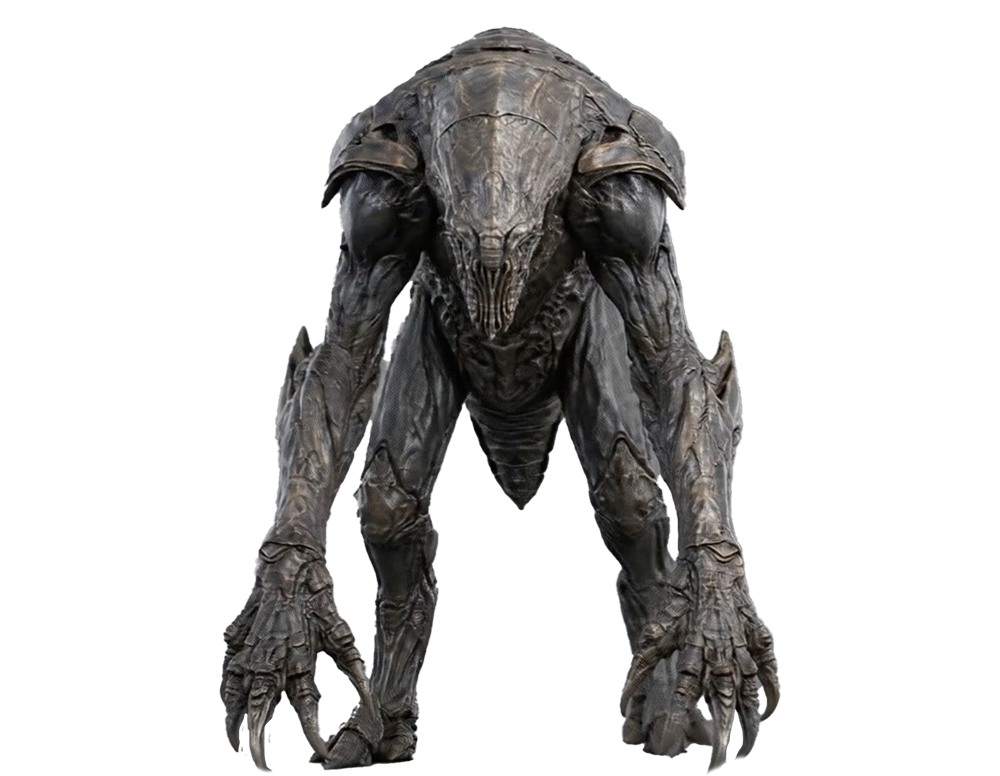
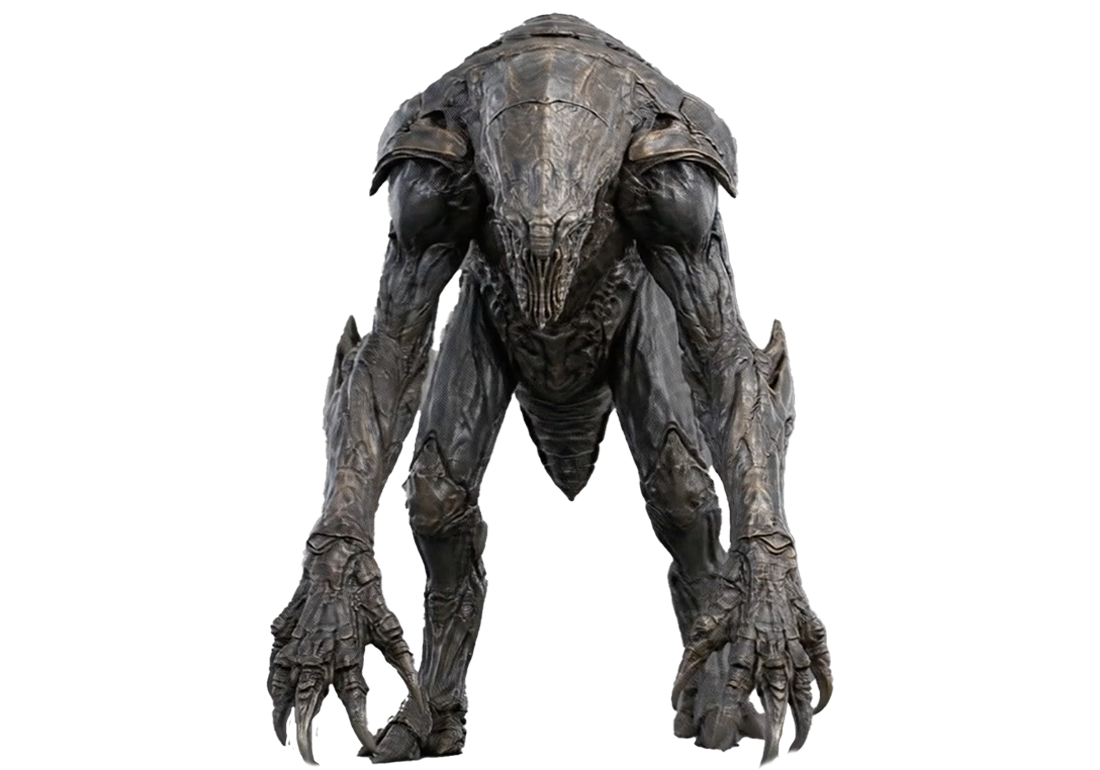
ボス歩行7コマ・影調整・ガイド枠タイミング短縮・OG文言更新
- alien-b-1.png → alien-b-l.png リネーム
- ボス歩行 alien-b-w1〜w7 を追加、bossAlien_walk を 7コマ・8fps ループに
- ボス displaySize 72×56 → 80×56（新比率 1100:770）
- ボス walk フレームのみ y を +2px 下げて影との隙間を解消
- ボスの影を拡大（width 50→60、height +2px）
- メッセージ枠を更に 2px 上に (labelY -34, arrowY -26)
- ガイド演出を 4秒以内に短縮（STEP_DUR 200→160, HOLD 150→120, total ≒ 4秒）
- OG description を映画予告風に更新
  「20XX年、月面探査クルーからの消息が途絶えた。月面下で、
   未知の脅威が目覚める。生還を賭けた、たった一人の救出作戦。」
- noindex,nofollow メタタグ削除（検索エンジンに公開）

Changed region(s): [[0.217, 0.0, 0.806, 0.9974]]

diff --git a/index.html b/index.html
@@ -3,15 +3,14 @@
 
 <head prefix="og:http://ogp.me/ns#">
     <title>Moonlander</title>
-    <meta name="description" content="Moonlanderというゲームを実行します。このゲームでは、プレイヤーが宇宙船を上下左右に操作して、デブリを避け目標となるフラッグに着陸することが目的です。フラッグ手前の月面に0.5秒止まるとクリアです。">
+    <meta name="description" content="20XX年、月面探査クルーからの消息が途絶えた。月面下で、未知の脅威が目覚める。生還を賭けた、たった一人の救出作戦。">
     <meta charset="utf-8">
     <meta property="og:url" content="https://paxcreation.com/moon/" />
     <meta property="og:type" content="product" />
     <meta property="og:title" content="Moonlander" />
-    <meta property="og:description" content="Moonlanderというゲームを実行します。このゲームでは、プレイヤーが宇宙船を上下左右に操作して、デブリをかわす目標となるフラッグに着陸することが目的です。フラッグ手前の月面に0.5秒止まるとクリアです。" />
+    <meta property="og:description" content="20XX年、月面探査クルーからの消息が途絶えた。月面下で、未知の脅威が目覚める。生還を賭けた、たった一人の救出作戦。" />
     <meta property="og:site_name" content="Moonlander" />
     <meta property="og:image" content="https://paxcreation.com/moon/assets/ogp.png" />
-    <meta name="robots" content="noindex,nofollow">
     <link rel="icon" href="assets/favi.ico">
     <link rel="stylesheet" href="style.css?v=13">
     <script src="//cdn.jsdelivr.net/npm/phaser@3.55.2/dist/phaser.min.js"></script>
@@ -526,11 +525,19 @@
             // 攻撃（捕獲）2コマ。A2 で停止
             this.load.image('alien_A1', 'assets/alien-s-a1.png');
             this.load.image('alien_A2', 'assets/alien-s-a2.png');
-            // ボス（雑魚と同じ仕組み。歩行は現状 B_1 のみ、2-6 は後ほど追加予定）
-            this.load.image('alienB_1', 'assets/alien-b-1.png');
+            // ボス（雑魚と同じ仕組み）
+            this.load.image('alienB_L', 'assets/alien-b-l.png');     // 横向き静止
             this.load.image('alienB_F', 'assets/alien-b-f.png');
             this.load.image('alienB_FL', 'assets/alien-b-fl.png');
             this.load.image('alienB_FR', 'assets/alien-b-fr.png');
+            // 歩行 7 コマ
+            this.load.image('alienB_W1', 'assets/alien-b-w1.png');
+            this.load.image('alienB_W2', 'assets/alien-b-w2.png');
+            this.load.image('alienB_W3', 'assets/alien-b-w3.png');
+            this.load.image('alienB_W4', 'assets/alien-b-w4.png');
+            this.load.image('alienB_W5', 'assets/alien-b-w5.png');
+            this.load.image('alienB_W6', 'assets/alien-b-w6.png');
+            this.load.image('alienB_W7', 'assets/alien-b-w7.png');
             this.load.image('alienB_A1', 'assets/alien-b-a1.png');
             this.load.image('alienB_A2', 'assets/alien-b-a2.png');
             this.load.image('alienB_A3', 'assets/alien-b-a3.png');
@@ -1253,11 +1260,15 @@
                 frameRate: 10,
                 repeat: 0
             });
-            // ----- ボス用アニメ（雑魚と同形状。歩行は B_1 単発のみ、2-6 追加で拡張予定）-----
+            // ----- ボス用アニメ（雑魚と同形状）-----
             this.anims.create({
                 key: 'bossAlien_walk',
-                frames: [{ key: 'alienB_1' }],
-                frameRate: 12,
+                frames: [
+                    { key: 'alienB_W1' }, { key: 'alienB_W2' }, { key: 'alienB_W3' },
+                    { key: 'alienB_W4' }, { key: 'alienB_W5' }, { key: 'alienB_W6' },
+                    { key: 'alienB_W7' }
+                ],
+                frameRate: 8,
                 repeat: -1
             });
             this.anims.create({
@@ -1787,6 +1798,9 @@
                                 e.x += sign * sp * dt;
                                 if (e.anims.currentAnim && e.anims.currentAnim.key === walkKey) {
                                     e.setFlipX(sign > 0);
+                                    // ボスの walk フレームは影との隙間を埋めるため 2px 下げる
+                                    if (e.isBoss) e.y = this.groundFeetY + 2;
+                                    else e.y = this.groundFeetY;
                                 }
                             }
                         }
@@ -2108,12 +2122,12 @@
                             const arrows = [arrow, arrow + arrow, arrow + arrow + arrow];
                             const offsetX = (isRight ? 1 : -1) * 25;
                             const originX = isRight ? 0 : 1;
-                            const labelY = this.astronaut.y - 32;
-                            const arrowY = this.astronaut.y - 24;
+                            const labelY = this.astronaut.y - 34;
+                            const arrowY = this.astronaut.y - 26;
                             const ARROW_LOOPS = 3;
                             const STAGES = 3;
-                            const STEP_DUR = 200;
-                            const STEP_HOLD = 150;
+                            const STEP_DUR = 160;
+                            const STEP_HOLD = 120; // 9 steps × 440ms = 3960ms（4秒以内）
                             const STEP_TOTAL = STEP_DUR * 2 + STEP_HOLD;
                             const totalSteps = ARROW_LOOPS * STAGES;
                             const totalDuration = STEP_TOTAL * totalSteps;
@@ -2971,8 +2985,8 @@
                                         const enemy = this.add.sprite(spawnX, this.groundFeetY + enemyH, isBoss ? 'alienB_F' : 'alien_F');
                                         enemy.setOrigin(0.5, 1);
                                         if (isBoss) {
-                                            // 元画像比率 1000:776 を維持（h=56 → w≒72）
-                                            enemy.setDisplaySize(72, 56);
+                                            // 元画像比率 1100:770 を維持（h=56 → w=80）
+                                            enemy.setDisplaySize(80, 56);
                                             enemy.hp = 10;
                                         } else {
                                             // 元画像比率 1000:600 (10:6) を維持（h=24 → w=40）
@@ -2989,7 +3003,7 @@
                                         enemy.setMask(this.groundMask);
                                         enemy.emerging = true;
                                         // 影：地中から出てくる瞬間から地面に表示（フェードインで予兆を演出）
-                                        enemy.shadow = createGroundShadow(this, enemy.x, this.groundFeetY, isBoss ? 50 : 24);
+                                        enemy.shadow = createGroundShadow(this, enemy.x, this.groundFeetY, isBoss ? 60 : 24, isBoss ? 2 : 0);
                                         enemy.shadow.alpha = 0;
                                         this.tweens.add({ targets: enemy.shadow, alpha: 1, duration: 900, ease: 'Sine.easeOut' });
 
@@ -3088,12 +3102,12 @@
                                         const isRight = this.moonCar.x > astronaut.x;
                                         const offsetX = (isRight ? 1 : -1) * 25;
                                         const originX = isRight ? 0 : 1; // 右向き=左揃え、左向き=右揃え
-                                        const labelY = astronaut.y - 32;
-                                        const arrowY = astronaut.y - 24;
+                                        const labelY = astronaut.y - 34;
+                                        const arrowY = astronaut.y - 26;
                                         const ARROW_LOOPS = 3;
                                         const STAGES = 3;
-                                        const STEP_DUR = 200; // フェードイン
-                                        const STEP_HOLD = 150;
+                                        const STEP_DUR = 160; // フェードイン
+                                        const STEP_HOLD = 120; // 9 steps × 440ms = 3960ms（4秒以内）
                                         const STEP_TOTAL = STEP_DUR * 2 + STEP_HOLD; // 1ステップの総時間 (in+hold+out)
                                         const totalSteps = ARROW_LOOPS * STAGES;
                                         const totalDuration = STEP_TOTAL * totalSteps;
@@ -3278,15 +3292,15 @@
         }
 
         // 地上キャラクターの影（多層楕円で疑似ブラー）。深度 6.5 (moon car 6 と crews 7 の間)
-        function createGroundShadow(scene, x, footY, width) {
+        function createGroundShadow(scene, x, footY, width, heightBoost = 0) {
             const g = scene.add.graphics();
             // 外側ほど薄く広く（ぼかし表現）
             g.fillStyle(0x000000, 0.04);
-            g.fillEllipse(0, 0, width * 1.5, 4.5);
+            g.fillEllipse(0, 0, width * 1.5, 4.5 + heightBoost);
             g.fillStyle(0x000000, 0.06);
-            g.fillEllipse(0, 0, width * 1.2, 3.6);
+            g.fillEllipse(0, 0, width * 1.2, 3.6 + heightBoost);
             g.fillStyle(0x000000, 0.08);
-            g.fillEllipse(0, 0, width, 3);
+            g.fillEllipse(0, 0, width, 3 + heightBoost);
             g.x = x;
             g.y = footY;
             g.setDepth(6.5);
